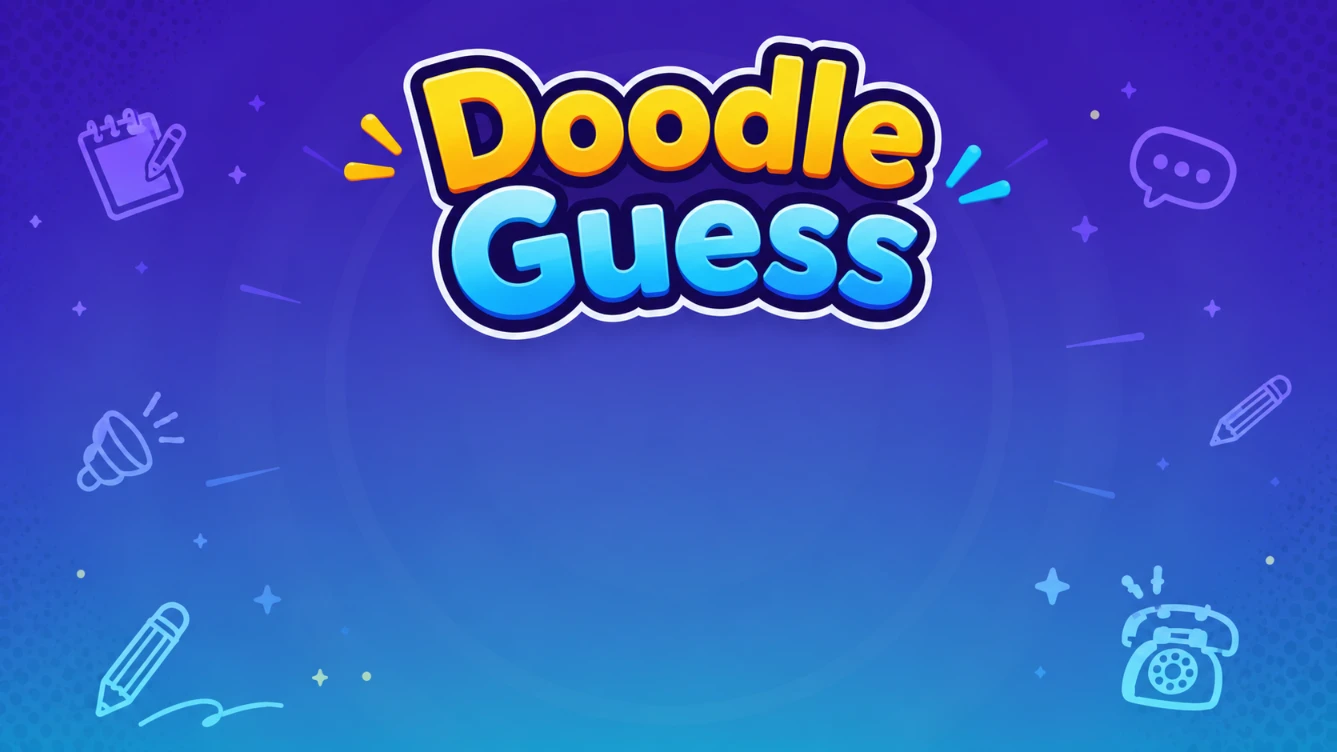
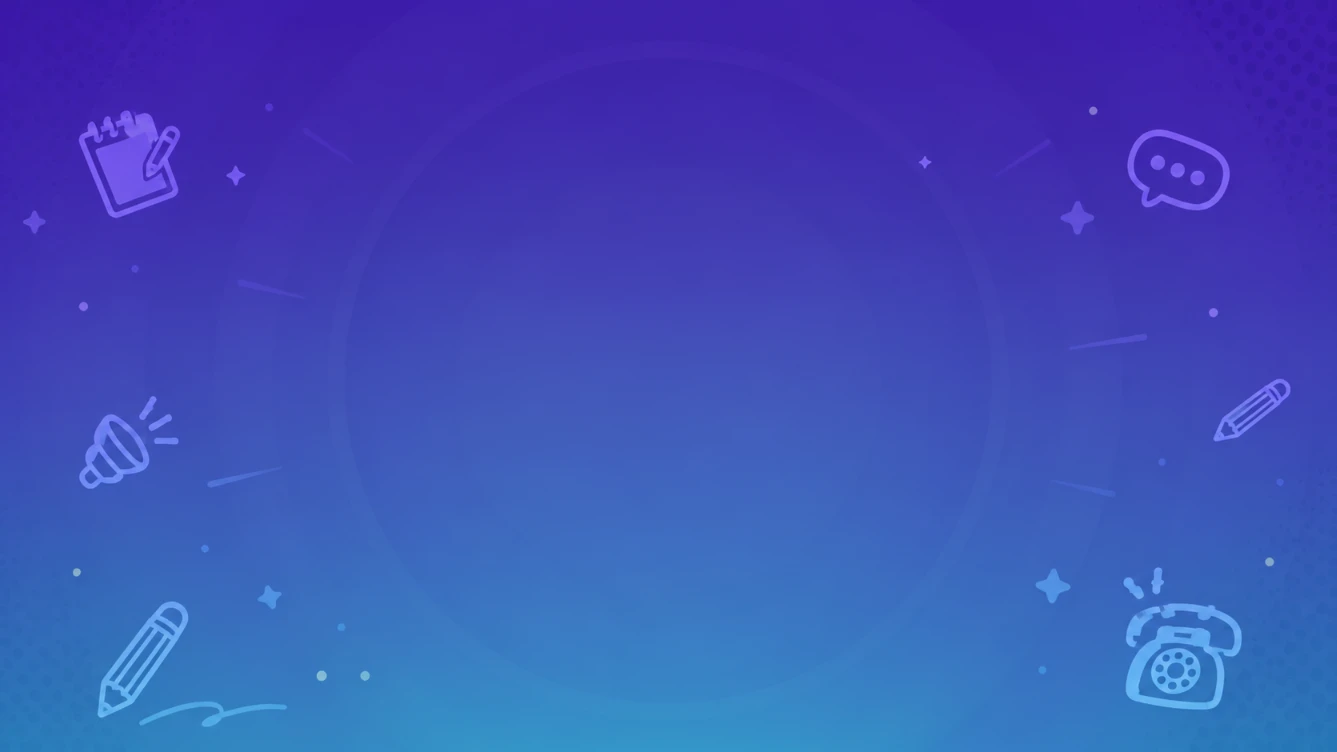
로비 타이틀 이미지를 패널 위에 얹는다
배경(lobby_bg.webp)에서 타이틀을 뺀 새 이미지로 바뀌었으므로, 배경이
지워진 lobby_title.webp 를 로비 패널 위에 올린다.

- .lobby-screen 을 세로 플렉스로 바꿔 타이틀과 패널을 쌓는다.
- 아래(모바일은 가운데) 정렬을 justify-content 가 아니라 auto 여백으로
  만든다. 내용이 화면보다 길어지면 auto 여백이 0이 되어 위에서부터
  스크롤된다. justify-content 로 두면 넘칠 때 위가 잘려 닿을 수 없다.
- 타이틀은 height clamp + width auto 로 비율을 지킨다.

기존 visually-hidden h1 을 타이틀 이미지를 감싸는 h1 으로 옮겨 제목이
하나만 남게 했다.

Claude-Session: https://claude.ai/code/session_01Hmj7gjkyFPQtBYBJn65krC

diff --git a/client/src/styles/global.css b/client/src/styles/global.css
@@ -149,8 +149,11 @@ h3 {
 .lobby-screen {
   width: 100%;
   height: 100%;
-  display: grid;
-  place-items: end center;
+  /* 타이틀 이미지와 로비 패널을 아래쪽에 세로로 쌓는다. */
+  display: flex;
+  flex-direction: column;
+  align-items: center;
+  gap: clamp(0.5rem, 1.5vh, 1.25rem);
   overflow: auto;
   padding: max(var(--space-3), var(--safe-top))
     max(var(--space-3), var(--safe-right))
@@ -161,7 +164,27 @@ h3 {
     url("/images/bg/lobby_bg.webp") center / cover no-repeat;
 }
 
+/* 배경에서 타이틀을 뺐으므로 패널 위에 얹는다. 배경이 지워진 이미지다. */
+.lobby-title {
+  flex: none;
+  /*
+   * 아래 정렬을 justify-content 대신 auto 여백으로 만든다. 내용이 화면보다
+   * 길어지면 auto 여백은 0이 되어 위에서부터 자연스럽게 스크롤된다.
+   * justify-content: flex-end 로 두면 넘칠 때 위가 잘려 닿을 수 없다.
+   */
+  margin: auto 0 0;
+  line-height: 0;
+}
+
+.lobby-title img {
+  height: clamp(5rem, 20vh, 11rem);
+  width: auto;
+  max-width: min(90vw, 34rem);
+  object-fit: contain;
+}
+
 .lobby-card {
+  flex: none;
   width: min(94vw, 36rem);
   display: flex;
   flex-direction: column;

diff --git a/client/src/screens/LobbyScreen.tsx b/client/src/screens/LobbyScreen.tsx
@@ -17,8 +17,10 @@ export const LobbyScreen = () => {
 
   return (
     <main className="lobby-screen">
+      <h1 className="lobby-title">
+        <img src="/images/bg/lobby_title.webp" alt="Doodle Guess 두들 게스" />
+      </h1>
       <section className="lobby-card">
-        <h1 className="visually-hidden">Doodle Guess 두들 게스</h1>
         <ServerStatus />
         <div className="lobby-grid">
           <div>

diff --git a/client/src/styles/responsive.css b/client/src/styles/responsive.css
@@ -269,10 +269,11 @@
 
   .lobby-card {
     min-height: auto;
+    /* 타이틀의 위쪽 auto 여백과 짝을 이뤄 세로 가운데로 온다. */
+    margin-bottom: auto;
   }
 
   .lobby-screen {
-    place-items: center;
     background:
       linear-gradient(rgb(29 28 43 / 0.28), rgb(29 28 43 / 0.4)),
       url("/images/bg/lobby_m_bg.webp") center / cover no-repeat;
